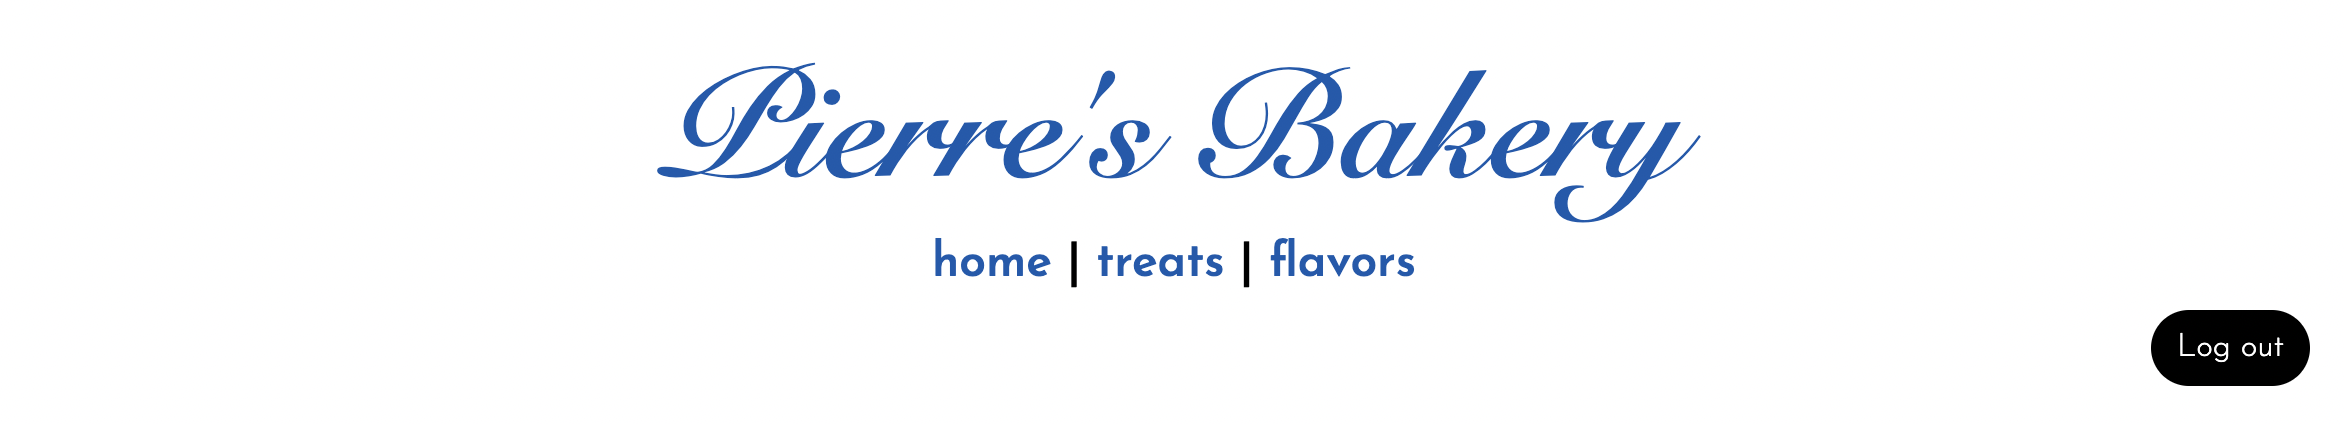
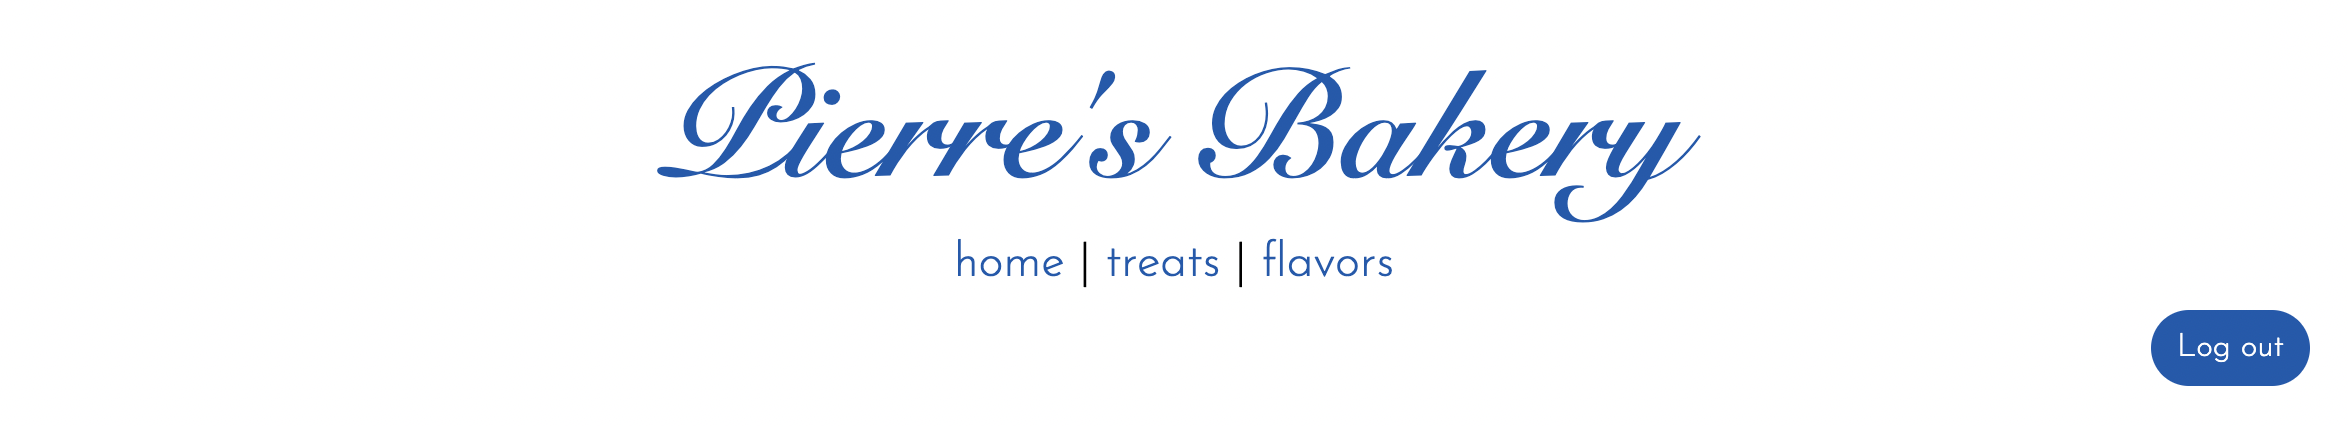
finish full functionality and styling

Changed region(s): [[0.2803, 0.1533, 0.7474, 0.5212], [0.3737, 0.5519, 0.6229, 0.6745], [0.9032, 0.7052, 0.9966, 0.9198]]

diff --git a/Menu/wwwroot/css/styles.css b/Menu/wwwroot/css/styles.css
@@ -1,69 +1,60 @@
 div#footer {
-  position:fixed;
-  bottom:0px;
-  left:0px;
-  width:100%;
+  position: fixed;
+  bottom: 0px;
+  left: 0px;
+  width: 100%;
   color: rgb(58, 58, 58);
-  background-color:white;
-  padding:8px;
+  background-color: white;
+  padding: 8px;
 }
 
 div#header {
-  position:fixed;
-  top:0px;
-  left:0px;
+  position: absolute;
+  top: 0px;
+  left: 0px;
   text-align: center;
-  width:100%;
+  width: 100%;
   color: rgb(0, 0, 0);
-	font-family: 'Josefin Sans', sans-serif;
+  font-family: 'Josefin Sans', sans-serif;
   font-weight: 400;
-  /* background: url("../img/background.jpg") no-repeat center center fixed;  */
   -webkit-background-size: cover;
   -moz-background-size: cover;
   -o-background-size: cover;
   background-size: cover;
-	background:white;
+  background: white;
   padding: 20px;
-  /* border-image: url("../img/3.jpg")7% round;
-	border-image-width: 30px; */
-	/* border-color: rgb(0, 0, 0);
-	border-style: solid;
-	border-width: 10px; */
 }
 
 h1 {
-	color: rgb(6, 90, 175);
+  color: rgb(6, 90, 175);
   font-size: 75px;
   font-weight: 700;
   font-family: Snell Roundhand, cursive;
 }
 
 h2 {
-  color:rgb(0, 0, 0);
-	padding-bottom: 10px;
+  color: rgb(0, 0, 0);
+  padding-bottom: 10px;
   font-size: 40px;
   font-weight: 700;
-	text-align: center;
-  font-family: Snell Roundhand, cursive;
+  text-align: center;
 }
 
 h3 {
-  color:rgb(0, 0, 0);
-  font-weight: 700;
+  color: rgb(0, 0, 0);
 }
 
 h4 {
-  color:rgb(0, 0, 0);
-  font-weight: 700;
+  color: rgb(0, 0, 0);
 }
 
 h5 {
-  color:rgb(0, 0, 0);
+  color: rgb(0, 0, 0);
   white-space: pre-wrap;
 }
 
 a:link {
-  color:rgb(6, 90, 175);
+  color: rgb(6, 90, 175);
   text-decoration: none;
 }
 
@@ -73,20 +64,14 @@ a:visited {
 }
 
 a:hover {
-  color:pink;
+  color: pink;
   text-decoration: none;
 }
 
-/* a:active {
-  color: rgb(255, 65, 2);
-  text-decoration: none;
-} */
-
 body {
-	font-family: 'Josefin Sans', sans-serif;
-  font-weight: 400;
+  font-family: 'Josefin Sans', sans-serif;
   color: rgb(0, 0, 0);
-  background: url("../img/background.jpg") no-repeat center center fixed; 
+  background: url("../img/background.jpg") no-repeat center center fixed;
   -webkit-background-size: cover;
   -moz-background-size: cover;
   -o-background-size: cover;
@@ -94,32 +79,23 @@ body {
 }
 
 main {
-  margin-top:300px;
-  margin-left: 10%;
-  margin-right: 10%;
+  margin-top: 250px;
+  margin-left: 30%;
+  margin-right: 30%;
   text-align: left;
   font-family: 'Josefin Sans', sans-serif;
-  font-weight: 400;
-  background:white;
+  background: white;
   padding: 70px;
   border-radius: 50px;
-  /* border-image: url("../img/3.jpg")7% round;
-	border-image-width: 30px; */
-	border-color: rgb(0, 0, 0);
-	border-style: solid;
-	border-width: 10px;
+  border-color: rgb(0, 0, 0);
+  border-style: solid;
+  border-width: 10px;
 }
 
 .btn {
-  background:rgb(0, 0, 0);
+  background: rgb(6, 90, 175);
   border-radius: 50px;
   color: white;
-}
-
-dl {
-  font-size: large;
-  font-weight: 400;
-  font-family: 'Josefin Sans', sans-serif;
 }
 
 .logoutbtn {
@@ -129,4 +105,3 @@ dl {
 em {
   font-weight: 200;
 }
-

diff --git a/Menu/Controllers/TreatsController.cs b/Menu/Controllers/TreatsController.cs
@@ -23,13 +23,21 @@ namespace Menu.Controllers
       _db = db;
     }
 
-    public async Task<ActionResult> Index()
+    [AllowAnonymous]
+    public ActionResult Index()
     {
-      var userId = this.User.FindFirst(ClaimTypes.NameIdentifier)?.Value;
-      var currentUser = await _userManager.FindByIdAsync(userId);
-      var userTreats = _db.Treats.Where(entry => entry.User.Id == currentUser.Id).ToList();
-      return View(userTreats);
+    return View(_db.Treats.ToList());
     }
+
+//The code below would be if we were only showing each user their own entries. Instead, using the above route, anyone logged in can add to a single common database and anyone logged out can read it.
+
+    // public async Task<ActionResult> Index()
+    // {
+    //   var userId = this.User.FindFirst(ClaimTypes.NameIdentifier)?.Value;
+    //   var currentUser = await _userManager.FindByIdAsync(userId);
+    //   var userTreats = _db.Treats.Where(entry => entry.User.Id == currentUser.Id).ToList();
+    //   return View(userTreats);
+    // }
 
     public ActionResult Create()
     {
@@ -53,6 +61,7 @@ namespace Menu.Controllers
       return RedirectToAction("Index");
     }
 
+    [AllowAnonymous]
     public ActionResult Details(int id)
     {
       var thisTreat = _db.Treats

diff --git a/Menu/Controllers/FlavorsController.cs b/Menu/Controllers/FlavorsController.cs
@@ -21,6 +21,7 @@ namespace Menu.Controllers
       _db = db;
     }
 
+    [AllowAnonymous]
     public ActionResult Index()
     {
       List<Flavor> model = _db.Flavors.ToList();
@@ -40,6 +41,7 @@ namespace Menu.Controllers
       return RedirectToAction("Index");
     }
 
+    [AllowAnonymous]
     public ActionResult Details(int id)
     {
       var thisFlavor = _db.Flavors
